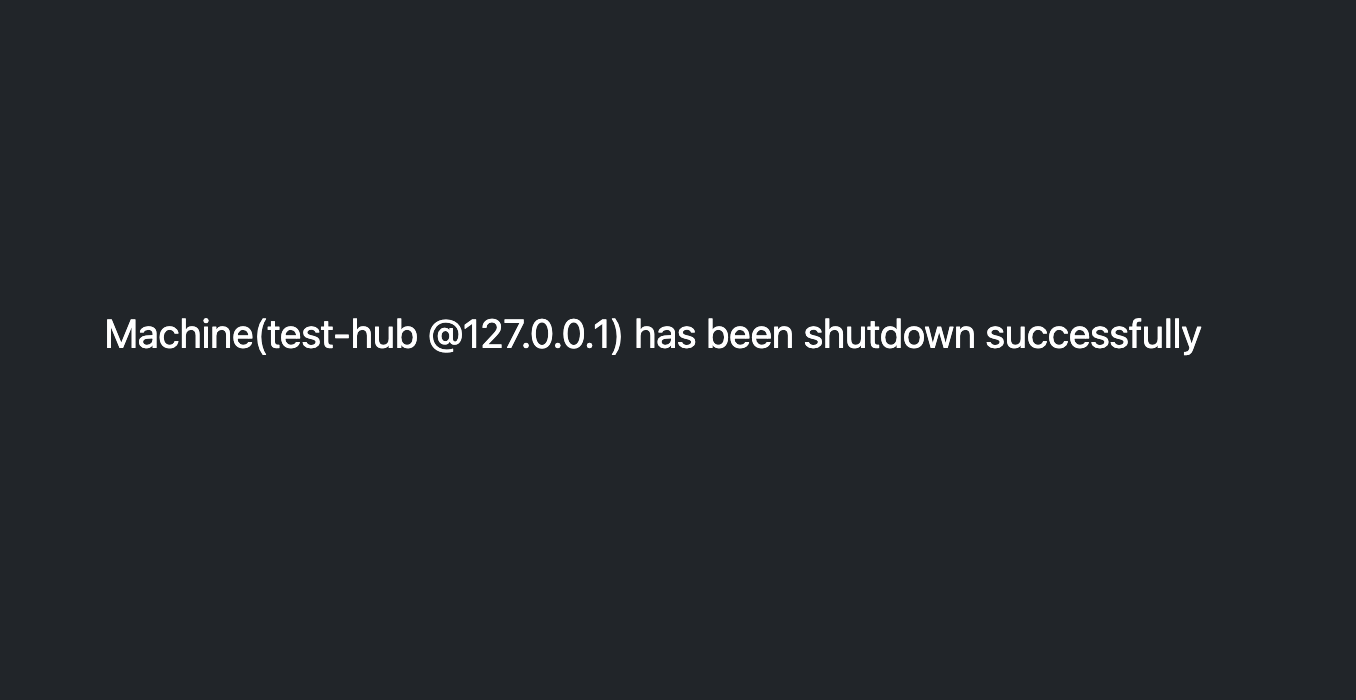
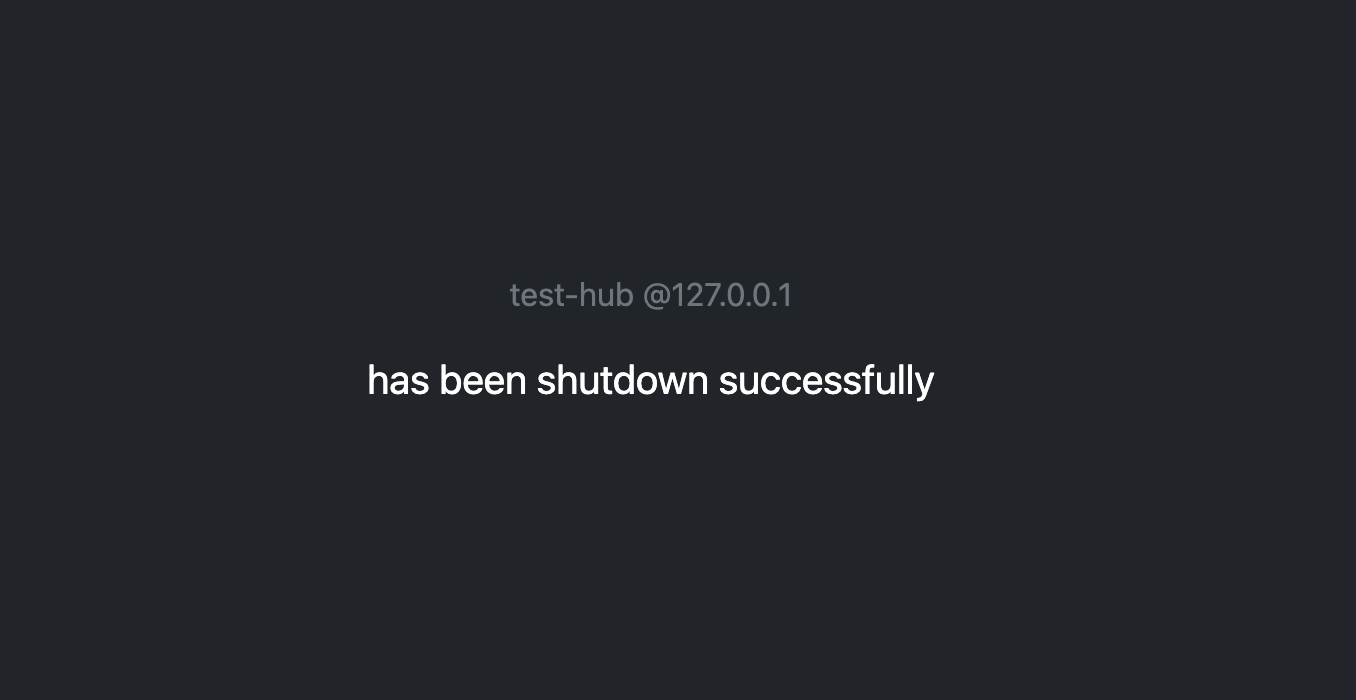
update README

Changed region(s): [[0.0619, 0.39, 0.8982, 0.57]]

diff --git a/templates/index.html b/templates/index.html
@@ -8,7 +8,7 @@
 </div>
 <p class="text-center mt-4 fs-6 text-muted">Login as <em>{{ current_user.name }}</em>. Want to <a
         href="/logout">Logout</a>?</p>
-<div class="w-100 h-100 bg-dark text-white position-fixed d-flex justify-content-center align-items-center invisible fs-5"
+<div class="w-100 h-100 bg-dark text-white position-fixed d-flex justify-content-center align-items-center flex-column invisible fs-5"
     style="z-index: 100;left:0;top:0;" id="cmdOutput">
 </div>
 {% endblock %}
